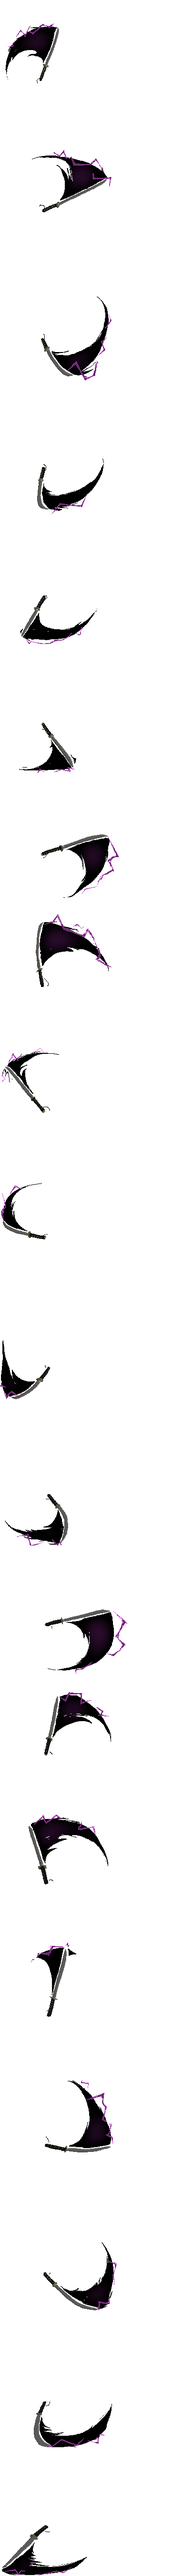
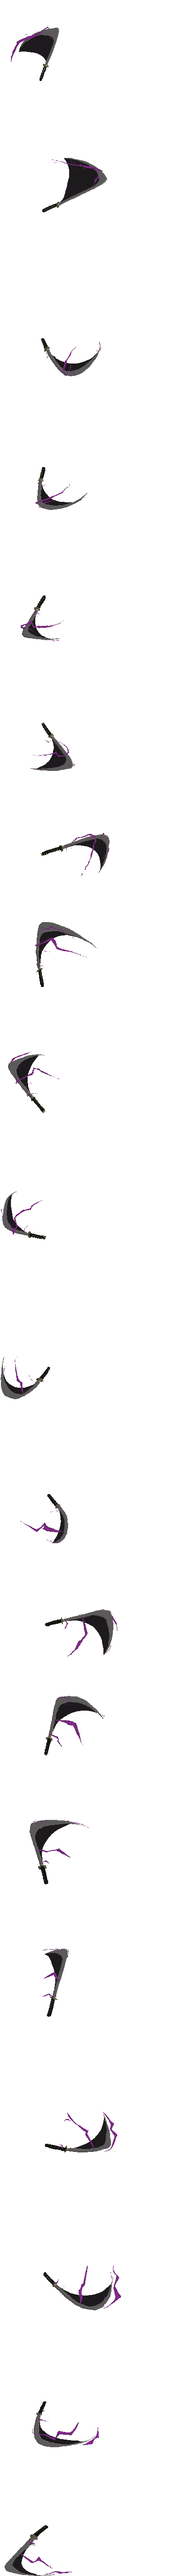
resprite

diff --git a/Content/Items/Weapons/Melee/CrikySword.cs b/Content/Items/Weapons/Melee/CrikySword.cs
@@ -56,7 +56,7 @@ namespace sorceryFight.Content.Items.Weapons.Melee
             int frameY = (int)(Main.GameUpdateCount / TICKS_PER_FRAME % FRAMES) * frameHeight;
             Rectangle srcRect = new Rectangle(0, frameY, texture.Width, frameHeight);
 
-            spriteBatch.Draw(texture, position, srcRect, Color.White, 0f, origin, scale, SpriteEffects.None, 0f);
+            spriteBatch.Draw(texture, position, srcRect, Color.White, 0f, origin, scale * 1.5f, SpriteEffects.None, 0f);
             return false;
         }
 
